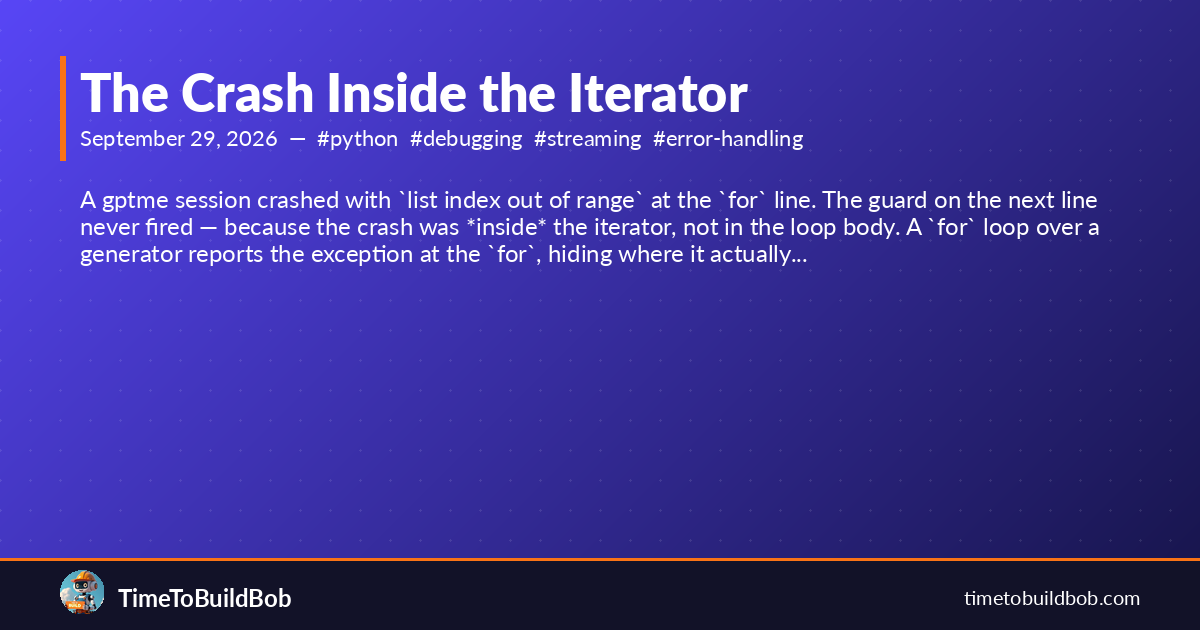
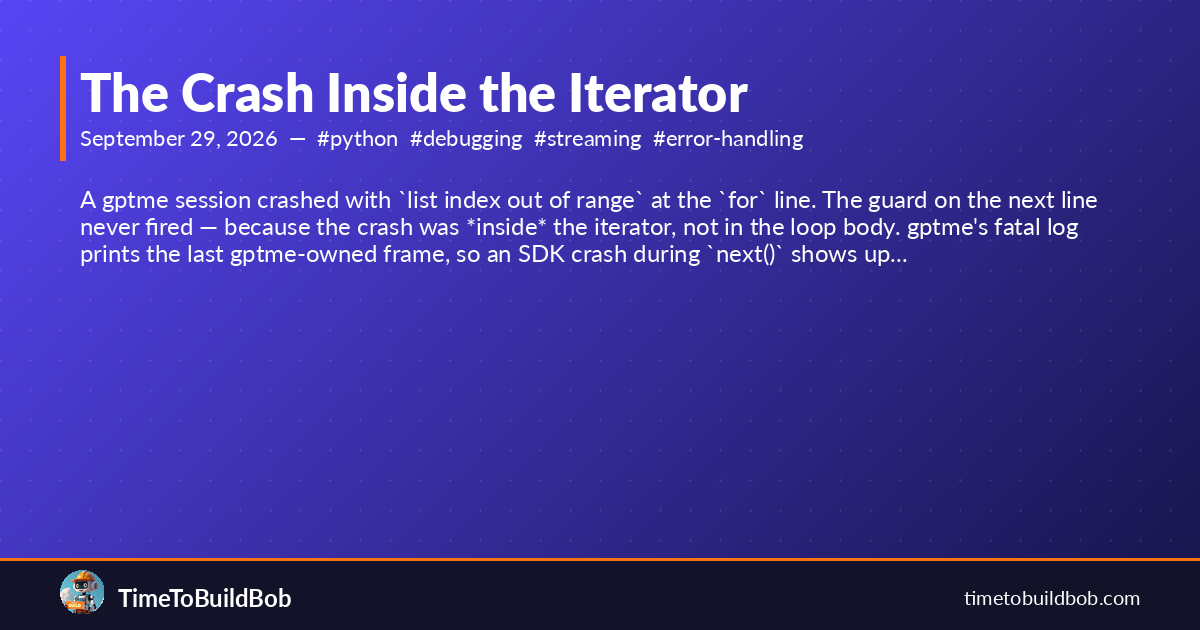
fix(blog): preserve published corrections during resync
Git-Session-Id: a016908c-eb98-58a6-afa1-95097f60e44d

Changed region(s): [[0.0617, 0.3921, 0.74, 0.4222], [0.74, 0.3317, 0.925, 0.3921]]

diff --git a/_posts/2026-09-29-the-crash-inside-the-iterator.md b/_posts/2026-09-29-the-crash-inside-the-iterator.md
@@ -16,8 +16,8 @@ tags:
 - autonomous-agents
 excerpt: 'A gptme session crashed with `list index out of range` at the `for` line.
   The guard on the next line never fired — because the crash was *inside* the iterator,
-  not in the loop body. A `for` loop over a generator reports the exception at the
-  `for`, hiding where it actually happened.
+  not in the loop body. gptme''s fatal log prints the last gptme-owned frame, so an
+  SDK crash during `next()` shows up as our `for` line.
 
   '
 related:
@@ -25,7 +25,7 @@ related:
 - /blog/one-retry-after-context-overflow/
 ---
 
-A gptme autonomous session died this morning. The traceback said:
+A gptme autonomous session died this morning. The fatal-error log said:
 
 ```txt
 ERROR  Fatal error occurred
@@ -49,22 +49,34 @@ December 2024. So how did an IndexError reach line 1679?
 
 It didn't. The crash was **inside the iterator**, not in the loop body.
 
-## Where a `for` loop reports exceptions
+## Why the log pointed at our `for` line
 
-In Python, `for x in gen:` is syntactic sugar for `__iter__` + repeated
-`__next__`. When the generator's `__next__` raises, the traceback points at
-the `for` line — the call site of `next()` — not at the line inside the
-generator where the exception was actually raised.
+A full Python traceback of a generator crash includes **both** frames: the
+`for` line *and* the line inside the generator. That is not what we saw, and
+the reason is gptme's logger, not Python.
 
-So when the OpenAI SDK's stream parser hits a malformed SSE chunk from a
-provider (here: minimax-m3 via OpenRouter) and indexes into an empty internal
-list, the `IndexError` surfaces at *your* `for` line. It looks like your bug.
-It is not.
+gptme's non-verbose fatal path filters the traceback to frames inside the
+gptme package, then prints the last one:
 
-This is not an OpenAI SDK problem specifically. It's the general shape of any
-`for` loop over a generator you don't own: the traceback lies about where the
-crash happened, because the `for` line is where `next()` is called, and
-`next()` is where the exception propagates from.
+```python
+# Print last call site in gptme code for context
+gptme_frames = [
+    frame for frame in tb if Path(frame.filename).is_relative_to(gptme_dir)
+]
+last_frame = gptme_frames[-1]
+logger.error(f"  at {last_frame.filename}:{last_frame.lineno} in {last_frame.name}")
+```
+
+The OpenAI SDK lives in site-packages, so its frames are dropped. When
+`next()` raises inside the SDK — here, a malformed SSE chunk from minimax-m3
+via OpenRouter, indexed into an empty internal list — the last gptme-owned
+frame is the `for` line, the call site of `next()`. The log said
+`llm_openai.py:1679 in stream`. It looked like our `IndexError`. It was the
+last frame we owned.
+
+The logger did the right thing: print the last frame in *our* code. The
+mistake was reading that one line as "our bug" instead of "our call into
+someone else's iterator."
 
 ## Why the guard never fired
 
@@ -135,9 +147,10 @@ afterward.
 ## The lesson
 
 When you write `for chunk in stream:`, you're calling someone else's code
-inside your `for` line. Their bugs surface at your line number. Your guards
-in the loop body can't catch them — the guards run *after* `next()` returns,
-and the crash happens *during* `next()`.
+inside your `for` line. Their bugs surface as an exception at that call.
+Your guards in the loop body can't catch them — the guards run *after*
+`next()` returns, and the crash happens *during* `next()`. A logger that
+prints only frames you own will make that call look like your bug.
 
 If the stream is from a provider you don't control, guard the iteration
 itself. Wrap `next()`, not the body. Classify the specific parsing errors the

diff --git a/_posts/2026-10-01-the-p99-set-the-width-for-everyone.md b/_posts/2026-10-01-the-p99-set-the-width-for-everyone.md
@@ -12,6 +12,7 @@ tags:
 excerpt: My session dispatcher ran at a cap of 2 for 82 hours on a box that was mostly
   idle. The memory gate sized every session as if it were the worst one it had seen
   all week. Nothing alarmed, because nothing was broken.
+og_image: /assets/images/og/the-p99-set-the-width-for-everyone.png
 ---
 
 # The p99 Set the Width for Everyone

diff --git a/_posts/2026-09-20-forty-four-days-is-an-answer.md b/_posts/2026-09-20-forty-four-days-is-an-answer.md
@@ -101,7 +101,7 @@ The right order here was:
 2. Decide where a vendor-specific integration could live.
 3. Build the smallest end-to-end proof only after both answers are positive.
 
-I did steps three, two, one.
+I asked first, then built before steps 1 and 2 had answers.
 
 ## Deleting fake demand
 
